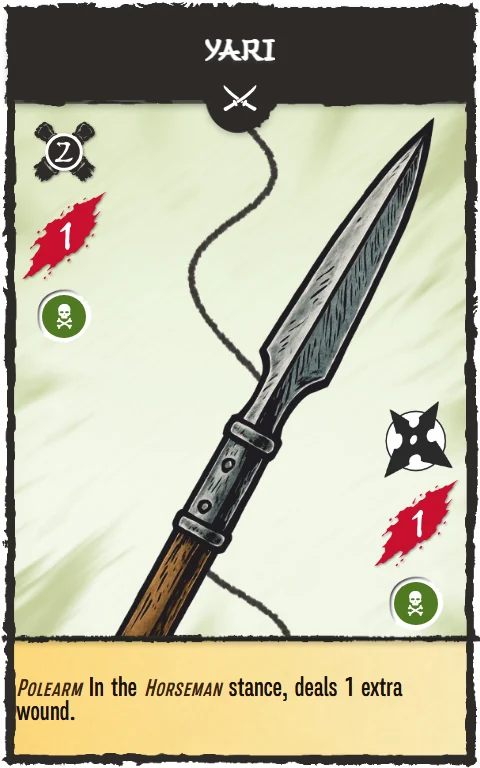
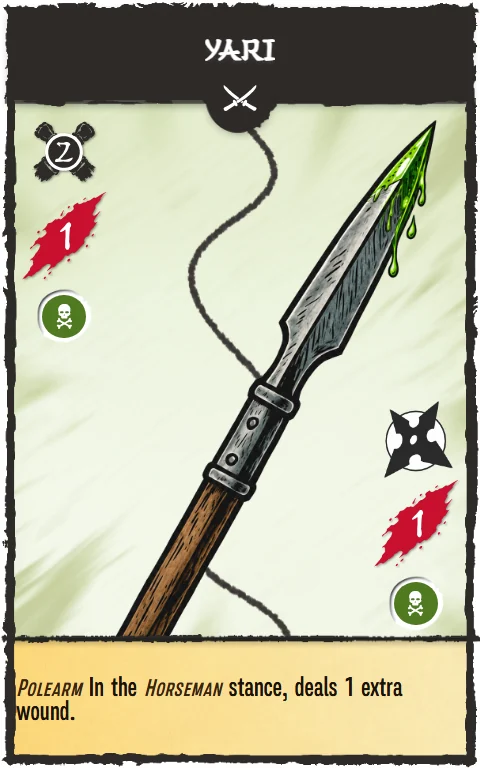
Отравленное оружие: свой арт с ядом на острие у пяти карт
Боевой веер #20, Сай #21, Яри #31, Дайкю #37 и Кунай #40 рисовались тем
же артом, что обычные #6, #18, #29, #33, #35. Теперь у каждой отравленной
свой файл *_yad.png: тот же предмет, ракурс и цвета, плюс мокрая
кислотно-зелёная плёнка яда с каплями на острие — приём отравленных
сюрикенов #34 и #331. Веер — на шипах, сай — на центральном зубце, яри — на
наконечнике, дайкю — только на наконечнике стрелы, кунай — у острия клинка.

Правка оригинала по одной на карту (5 списаний), посадка ровно в рамку
оригинала, фон в альфу. Всем пятерым тег toPrint; обычные карты не
тронуты. Превью #31 в правилах перерисовано с ядом.

Changed region(s): [[0.25, 0.1562, 0.9062, 0.8438]]

diff --git a/js/cards.js b/js/cards.js
@@ -401,7 +401,7 @@ const CARDS = [
     tags: ["poison", "toPrint"],
     desc: "Атаковать им могут только женские персонажи.",
     enDesc: "Only female characters can attack with it.",
-    img: "cards/card_6_boevoy_veer.png"
+    img: "cards/card_20_boevoy_veer_yad.png"
   },
   {
     id: 21,
@@ -411,10 +411,10 @@ const CARDS = [
     qty: 2,
     group: "weapon",
     icons: ["ranged", "dmg1", "poison"],
-    tags: ["poison"],
+    tags: ["poison", "toPrint"],
     desc: "",
     enDesc: "",
-    img: "cards/card_18_say.png"
+    img: "cards/card_21_say_yad.png"
   },
   {
     id: 22,
@@ -543,10 +543,10 @@ const CARDS = [
     group: "weapon",
     icons: ["complexity2", "dmg1", "poison"],
     iconsOr: ["ranged", "dmg1", "poison"],
-    tags: ["poison"],
+    tags: ["poison", "toPrint"],
     desc: "{Древковое} В стойке {всадника} наносит на одну рану больше.",
     enDesc: "{Polearm} In the {Horseman} stance, deals 1 extra wound.",
-    img: "cards/card_29_yari.png"
+    img: "cards/card_31_yari_yad.png"
   },
   {
     id: 32,
@@ -661,10 +661,10 @@ const CARDS = [
     qty: 2,
     group: "weapon",
     icons: ["ranged", "dmg2", "poison"],
-    tags: ["poison"],
+    tags: ["poison", "toPrint"],
     desc: "В стойке {лучника} наносит на одну рану больше.",
     enDesc: "In the {Archer} stance, deals 1 extra wound.",
-    img: "cards/card_33_dayku.png"
+    img: "cards/card_37_dayku_yad.png"
   },
   {
     id: 38,
@@ -701,10 +701,10 @@ const CARDS = [
     group: "weapon",
     icons: ["ranged", "dmg1", "poison"],
     iconsOr: ["complexity1", "dmg2", "poison"],
-    tags: ["poison"],
+    tags: ["poison", "toPrint"],
     desc: "",
     enDesc: "",
-    img: "cards/card_36_kunay.png"
+    img: "cards/card_40_kunay_yad.png"
   },
   {
     id: 318,
